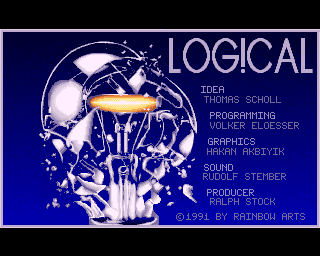
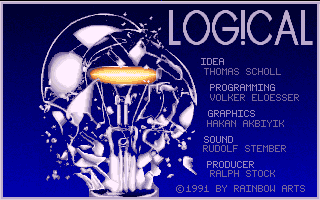
fix(Sprites): credit color palettes

diff --git a/Logical/States/TitleState.cs b/Logical/States/TitleState.cs
@@ -25,7 +25,7 @@ public class TitleState : GameState
     protected override void LoadContent()
     {
         _titel = Game.Content.Load<Song>("Titel");
-        _background = new SimpleImage(Game, Game.Content.Load<Texture2D>("Credit"), Vector2.Zero, 0);
+        _background = new SimpleImage(Game, Game.Content.Load<Texture2D>("Credit"), new Vector2(0f, 28f), 0);
         Components.Add(_background);
         MediaPlayer.Play(_titel);
         MediaPlayer.MediaStateChanged += EndCaller;
